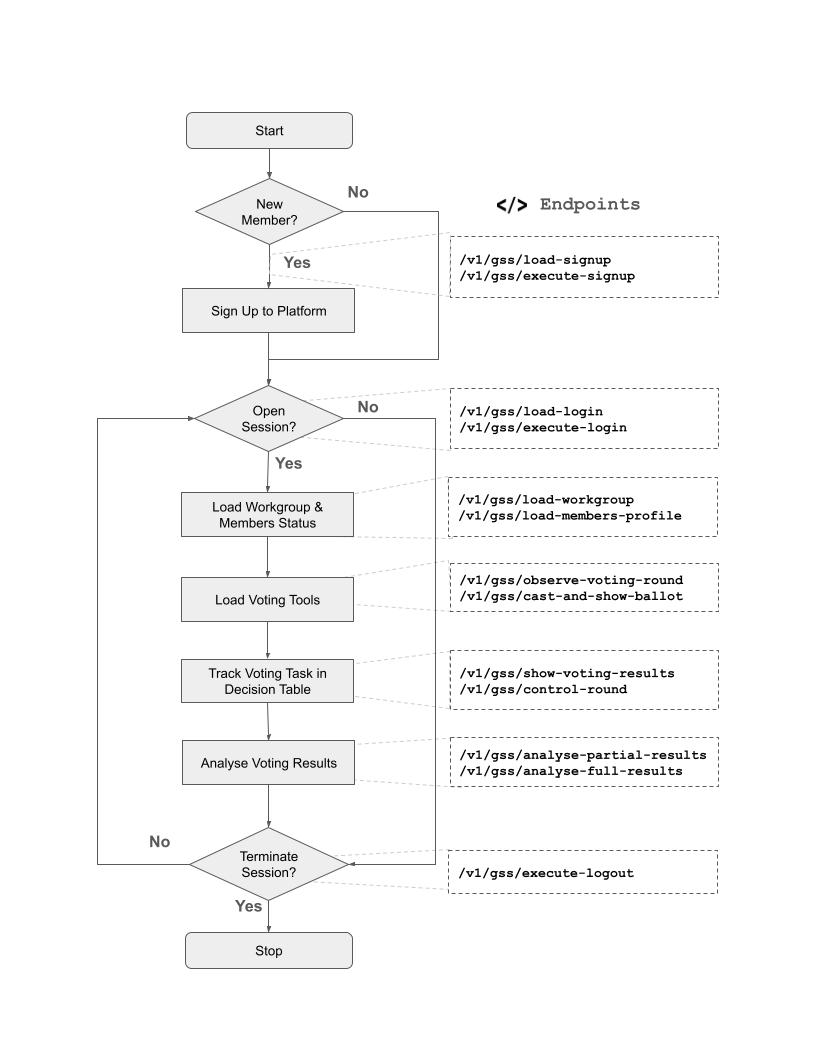
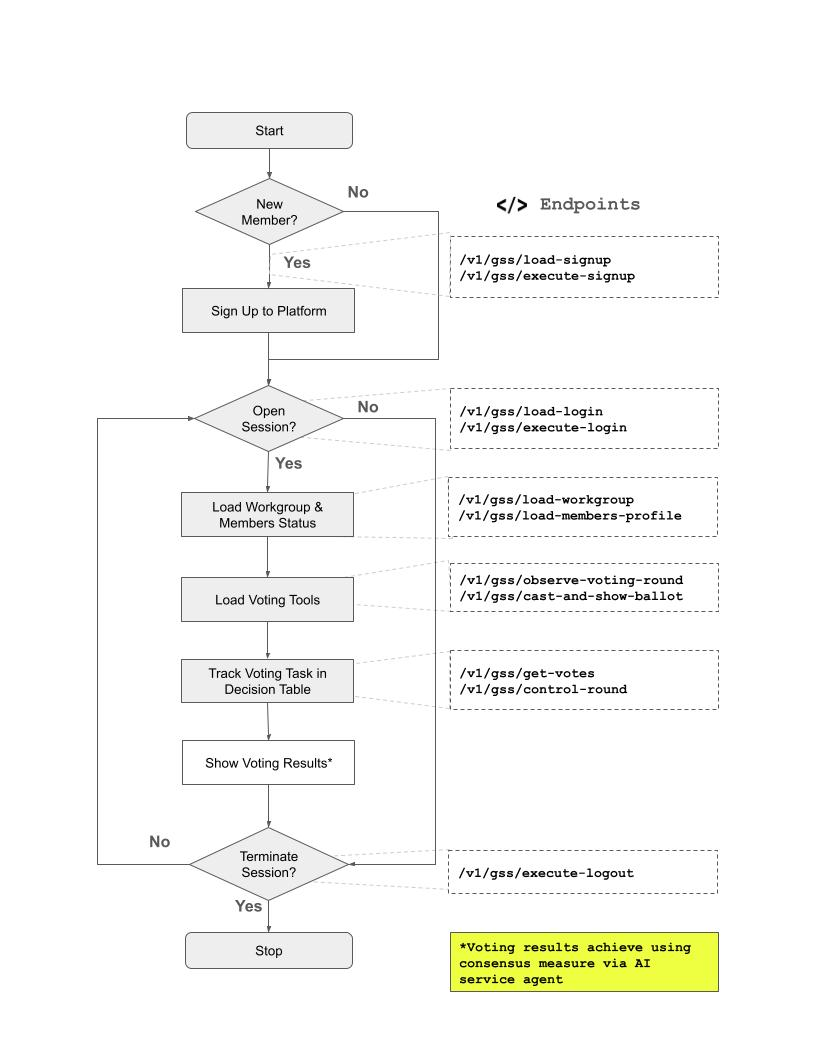
Removed results and consensus measure
Removed group result and consensus measure. Leave this to the AI service agent to identify the right algorithm based on voting method selected by the group, and data available via GSS.

diff --git a/README.md b/README.md
@@ -18,7 +18,7 @@ The current features are as follows:
 This microservice is hosted on mirror images of Cloud computing. Specification of the service is defined in the OpenAPI definitions contained in this repository. As part of the OpenAPI definition, the [Server Object](https://learn.openapis.org/specification/servers.html) is used to define API servers in two locations. There are seperate API servers for Asia clients, Australia and New Zealand clients, and North American clients. 
 
 ## Conceptual Overview
-This control flow depicts the API calls to support workgroup decisions. The control flow consist of a loop of actions; signup new members with AI service agent, open session for member's AI service agent, load workgroup and members status, load voting tools, track group actions in decision table, analyse voting results, and then wait for the AI service agent before iterating the loop or terminating the session.
+This control flow depicts the API calls to support workgroup decisions. The control flow consist of a loop of actions; signup new members with AI service agent, open session for member's AI service agent, load workgroup and members status, load voting tools, track group actions in decision table and then wait for the AI service agent before iterating the loop or terminating the session. The AI service agent(s) will provide group results showing levels of consensus and conflict among group tasks.
 
 ![Control Flow Diagram](control_flow.jpg)
 
@@ -36,10 +36,10 @@ This control flow depicts the API calls to support workgroup decisions. The cont
 
 - `/v1/gss/observe-voting-round` - Observe voting round(s) and polls via workgroup for AI service agent.
 - `/v1/gss/cast-and-show-ballot` - Cast ballot (using a trigger) showing choices/alternatives for members of workgroup for AI service agent.
-- `/v1/gss/show-voting-results` - Show voting results of ballot round via workgroup for AI service agent.
+- `/v1/gss/get-votes` - Obtain votes of ballot round for AI service agent.
 - `/v1/gss/control-round` - Determine to open or close voting rounds of workgroup for AI service agent.
-- `/v1/gss/analyse-partial-results` - Analyse partial voting results of workgroup for AI service agent.
-- `/v1/gss/analyse-final-results` - Analyse final voting results of workgroup for AI service agent.
+- ~~`/v1/gss/analyse-partial-results` - Analyse partial voting results of workgroup for AI service agent.~~
+- ~~`/v1/gss/analyse-final-results` - Analyse final voting results of workgroup for AI service agent.~~
 
 ## Repository Assets
 
